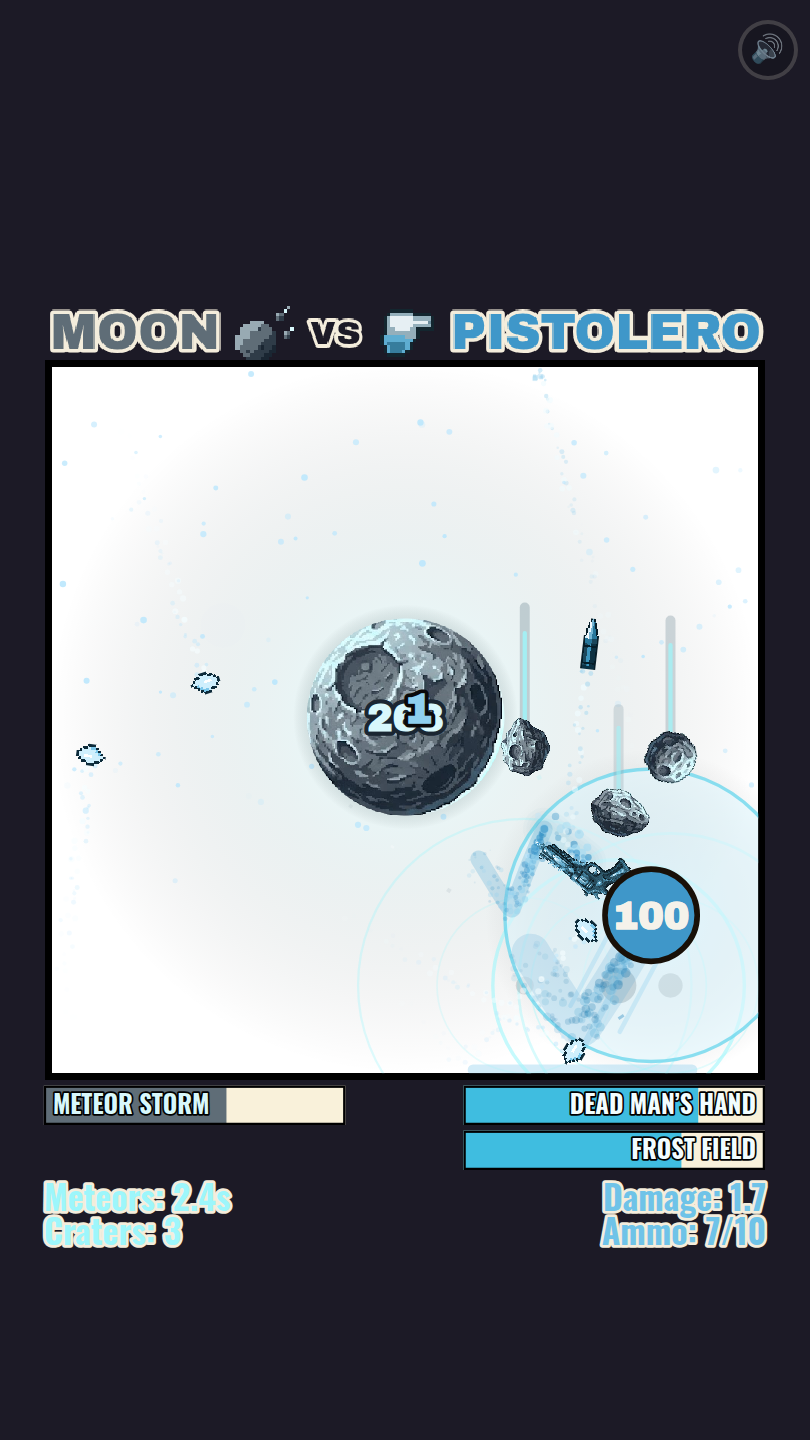
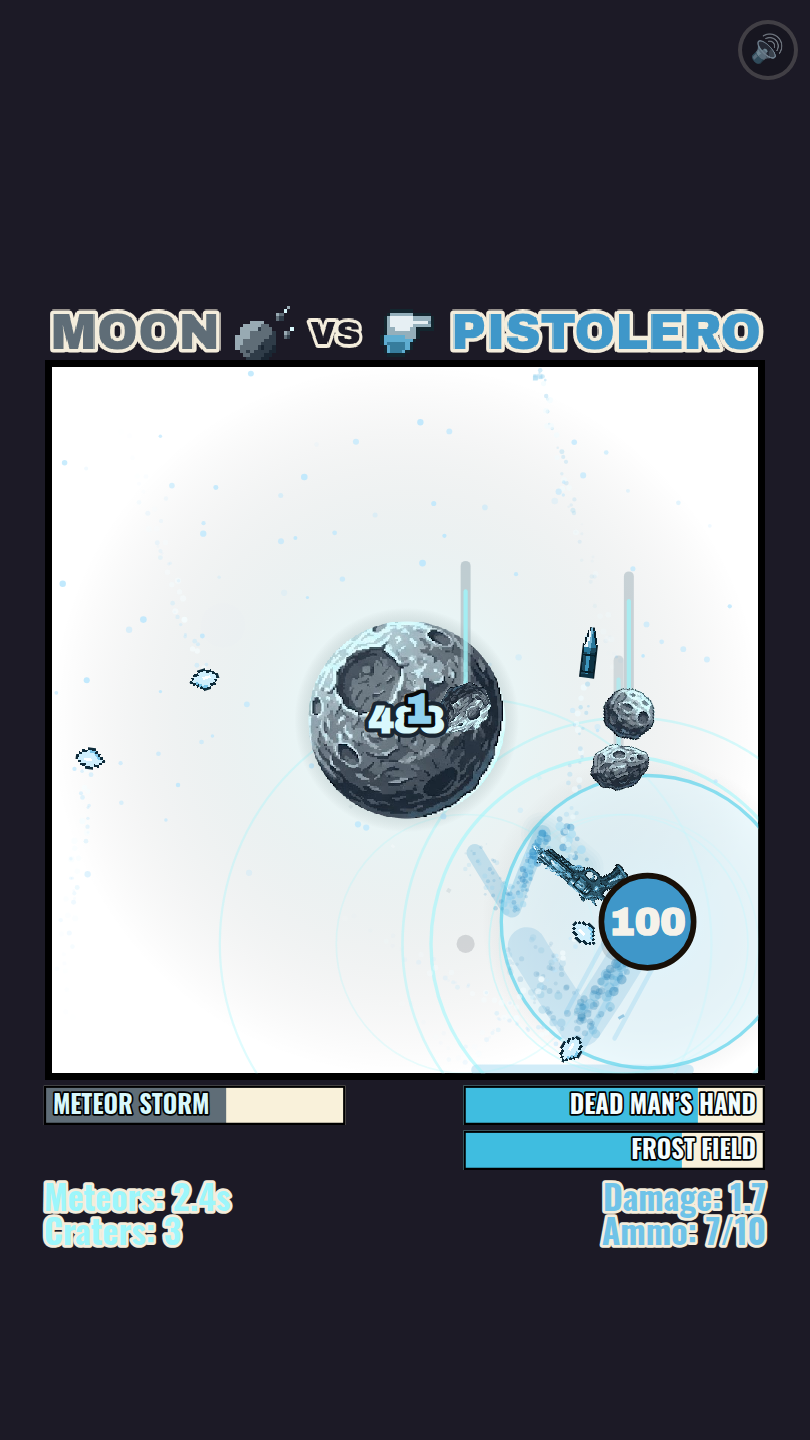
LUNE : 500 PV et une zone de météore de 115 px — demandés, et le sommet n'est plus partagé
Demandé : « hp à 500 / augmente la zone de météorite pour les attaques de base,
ça ne touche quasiment jamais ».

LA ZONE — l'observation était juste, au chiffre près

Taux de touche **par pierre** du pouvoir, 8 graines × les deux camps, avant :
Pistolero et Druide 10–12 %, Ronin / Shinobi / Hoplite 11–14 %, Golem 15 %,
Mannequin 19 %, Soleil 45 %. Une pierre sur dix, c'était bien « quasiment
jamais ».

C'était le prix de la mesure **de centre à centre**, adoptée au commit précédent
pour que le cercle dessiné au sol ne mente pas : elle avait retiré d'un coup
toute la marge que le rayon de la cible offrait gratuitement.

`ability.blast` 78 → **115**, et `ability.spread` 92 → **150** avec lui : à 92,
les trois cercles se recouvraient presque entièrement et se lisaient comme une
tache ; à 150 ils sont jointifs, donc on lit une zone continue faite de trois
cratères. Après :

  Pistolero · Druide        10–12 %  →  22 %
  Ronin · Shinobi · Hoplite 11–14 %  →  22–27 %
  Golem                        15 %  →  40 %
  Mannequin                    19 %  →  44 %
  Soleil                       45 %  →  56 %

Le cercle grandit, il continue de dire la vérité.

LES 500 PV, ET CE QU'ILS COÛTENT — à savoir avant d'y revenir

480 → 460 → 280 → 500 en quatre versions. 280 était le point d'équilibre
**mesuré** : à ce chiffre le duel des boss se partageait à 27/50 sur 25 graines ×
les deux camps.

À 500, LUNE porte la barre du Soleil **en plus** de ne jamais s'exposer (elle n'a
[…]

diff --git a/src/data/fighters/lunar.js b/src/data/fighters/lunar.js
@@ -55,28 +55,32 @@ export const LUNAR = fiche({
   tier: 'boss',
 
   /**
-   * **280 PV** — et c'est **480 → 460 → 280** en trois versions, le chiffre le
-   * plus instable de la fiche parce qu'il est le seul levier du duel des boss.
+   * **500 PV, demandé** (« hp à 500 ») — la barre du Soleil, à égalité pile.
    *
-   * La chute tient en une phrase : **elle ne prend plus aucun risque.** L'arme
-   * supprimée, elle n'a plus jamais besoin d'être quelque part — tout son dégât
-   * tombe du ciel sur un point qu'elle choisit à distance. Une barre de boss
-   * *en plus* de ça rendait le duel imperdable (50/50 au banc avant calage).
-   * 280 reste 2,8 fois la norme et se lit comme sa contrepartie : **le Soleil
-   * est une forteresse (500 PV, il encaisse), elle est un bombardier.**
+   * C'est **480 → 460 → 280 → 500** en quatre versions, le chiffre le plus
+   * remué de la fiche, parce qu'il est le seul levier du duel des boss. 280
+   * était le point d'équilibre **mesuré** : à ce chiffre, le duel se partageait
+   * à 27/50 sur 25 graines × les deux camps.
    *
-   * Balayage **monotone**, 25 graines × les deux camps (elle gagne, sur 50) :
-   * 250 → 13, 285 → 16, 320 → 21 avant le calage final des pierres ; à la
-   * cadence définitive, **280 → 27/50**. Et c'est bien le seul levier qui
-   * fonctionne : les dégâts par pierre et le rayon d'explosion ont tous deux
-   * été balayés et **plafonnent** (à moitié moins de dégâts, elle gagnait
-   * encore 28 fois sur 30), parce qu'ils déplacent sa production contre *tout
-   * le monde* en même temps.
+   * **Ce que 500 change, et il faut le savoir avant d'y toucher** : LUNE ne
+   * prend aucun risque (l'arme supprimée, elle n'a plus jamais besoin d'être
+   * quelque part) et porte désormais **aussi** la barre du Soleil. Le duel des
+   * boss passe donc de **27/50 à 50/50** — elle ne le perd plus jamais, et la
+   * spécification « les deux boss ne se départagent qu'entre eux » n'est plus
+   * vraie : il n'y a plus de partage, il y a un vainqueur.
+   *
+   * Le balayage reste **monotone**, donc le chemin du retour est connu et tient
+   * en un chiffre (25 graines × les deux camps, elle gagne, sur 50) :
+   * 250 → 13, 280 → 27, 285 → 16 · 320 → 21 · 380 → 26 aux réglages d'alors,
+   * **500 → 50**. Et c'est bien le seul levier qui fonctionne : les dégâts par
+   * pierre et le rayon d'explosion ont tous deux été balayés et **plafonnent**
+   * (à moitié moins de dégâts, elle gagnait encore 28 fois sur 30), parce
+   * qu'ils déplacent sa production contre *tout le monde* en même temps.
    *
    * Aucune réduction de dégâts, comme tous les autres : un seul chiffre porte
    * sa résistance, donc le banc n'a qu'un levier à tourner.
    */
-  maxHp: 280,
+  maxHp: 500,
 
   look: {
     /**
@@ -289,10 +293,17 @@ export const LUNAR = fiche({
      *  plus que ça entre deux averses. */
     cooldown: 2.6,
     count: 3,
-    /** Rayon du semis autour de la cible. Le premier caillou tombe **sur** elle,
-     *  les deux autres à 92 px — assez pour que reculer droit devant n'en évite
-     *  pas deux d'un coup. */
-    spread: 92,
+    /**
+     * **Rayon du semis autour de la cible — 92 → 150, et il suit `blast`.**
+     *
+     * Le premier caillou tombe **sur** la cible, les deux autres à `spread` de
+     * là. Tant que l'explosion faisait 78, 92 px de semis laissait les trois
+     * cercles se recouvrir presque entièrement : on lisait une tache, pas trois
+     * cratères. À 115 d'explosion il fallait écarter d'autant — 150 met les
+     * trois cercles **jointifs**, ce qui est exactement ce qu'on veut voir : une
+     * zone continue, mais dont on lit les trois morceaux.
+     */
+    spread: 150,
     /**
      * **Temps de chute, donc temps d'esquive — et le second levier asymétrique
      * de la fiche.**
@@ -356,8 +367,25 @@ export const LUNAR = fiche({
      *    touches par duel contre lui** pour 9 contre tous les autres.
      *
      * Voir le détail dans `game/abilities/lunar.js`, à `impact()`.
+     *
+     * **78 → 115, demandé** (« augmente la zone de météorite pour les attaques
+     * de base, ça ne touche quasiment jamais ») — et le relevé lui donnait
+     * raison au chiffre près. Taux de touche **par pierre**, huit graines × les
+     * deux camps, avant → après :
+     *
+     * | cible | 78 | **115** |
+     * | --- | --- | --- |
+     * | Pistolero · Druide | 10–12 % | **22 %** |
+     * | Ronin · Shinobi · Hoplite | 11–14 % | **22–27 %** |
+     * | Golem | 15 % | **40 %** |
+     * | Mannequin | 19 % | **44 %** |
+     * | Soleil | 45 % | **56 %** |
+     *
+     * Une pierre sur dix, c'était en effet « quasiment jamais » — et c'était le
+     * prix de la mesure de centre à centre, adoptée pour que le cercle dessiné
+     * ne mente pas. Le cercle grandit, il continue de dire la vérité.
      */
-    blast: 78,
+    blast: 115,
     knockback: 170,
     /**
      * **Secousse d'impact, volontairement petite.** Trois pierres décalées de

diff --git a/CLAUDE.md b/CLAUDE.md
@@ -95,7 +95,7 @@ calé pour la masquer.
 | `mage` **DRUIDE** / DRUID | tireur, **sceptre braqué posé sur le flanc et dessiné par-dessus la bille** (`weapon.spin = 0` + `weaponLateral` + `weapon.overBody`), **orbes guidées** (`projectiles.orb.homing`), cadence qui monte seule (+0,05 par orbe). Porte l’**Orage de ronces** et le **Tir enraciné** |
 | `golem` **GOLEM** | **inventé, pas relevé.** Le plus lent (370 px/s), la portée la plus courte (100 px), le plus gros corps (**rayon 50** contre 41) et **200 PV** quand tout le monde en a 100 — sa seule défense, sans aucune réduction de dégâts. Onde sismique sur horloge, Éclats de roche, **Séisme** |
 | `sun` **SOLEIL** / SUN | **inventé, et le seul boss.** Demandé pour **gagner contre tous les autres en 1 contre 1**, et il le fait à une graine près (20/21 sur la matrice, **139/140** sur un banc à 10 seeds × les deux camps — la seule perdue est un duel de 80 s contre l'Hoplite). **Deux fois plus grand que la norme** (rayon 82 contre 41), **500 PV**, et **le plus lent du roster de très loin** (230 px/s) — c'est là toute sa contrepartie. **Huit rayons** en couronne (`weapon.spokes: 8`, aucun angle mort) qui **ne blessent pas** (`melee.damage: 0`, demandé) : c'est sa silhouette et son bruit, plus son arme. Tout passe donc par le **Rayon solaire** (ultime, **79 %** de ses dégâts) : horloge de 7 s, **2 s de charge annoncée à l'écran** — anneaux qui se referment, éclats qui convergent, foyer qui bat — puis **2,5 s** d'un faisceau de 124 px de large, jusqu'à 96 PV. Il est cloué sur place 4,5 s à chaque tir. **Réchauffement solaire** (pouvoir) : brûle tout ennemi dans 240 px, 21 % |
-| `lunar` **LUNE** / MOON | **inventée, second boss, et le seul combattant sans arme qui gagne.** Trois demandes l'ont faite : la revoir en entier, puis « remplace le design de la balle par celui de l'arme / **supprime l'arme** / revois l'ultime météorite pour le rendre plus impressionnant, effet chute de météorites », avec une planche de lune et d'astéroïdes. **Elle n'a donc plus d'arme du tout** (`reach: 0`, `hitbox.radius: 0`, pas de `head.sprite` — le cas du Mannequin, qui est une cible d'entraînement) et **100 % de sa production tombe du ciel**. Corps de **rayon 88, fixe**, la lune criblée de la planche découpée à son disque ; **280 PV** et **430 px/s**. **Météores** (pouvoir, 2,6 s) : trois pierres tombent sur la cible, annoncées 0,45 s au sol par une ombre qui grossit et un cercle qui se resserre sur le rayon d'explosion — 49 %. **Pluie de météores** (ultime, horloge 9 s) : 1,1 s pendant lesquelles la nuit tombe, le corps gonfle et des pierres se détachent de lui, puis **3,2 s d'averse — vingt-cinq pierres, une toutes les 0,13 s**, trois ou quatre en l'air en permanence — 51 %. Elle bat les sept autres **167 fois sur 168** et partage avec le Soleil (**27/50**) |
+| `lunar` **LUNE** / MOON | **inventée, second boss, et le seul combattant sans arme qui gagne.** Trois demandes l'ont faite : la revoir en entier, puis « remplace le design de la balle par celui de l'arme / **supprime l'arme** / revois l'ultime météorite pour le rendre plus impressionnant, effet chute de météorites », avec une planche de lune et d'astéroïdes. **Elle n'a donc plus d'arme du tout** (`reach: 0`, `hitbox.radius: 0`, pas de `head.sprite` — le cas du Mannequin, qui est une cible d'entraînement) et **100 % de sa production tombe du ciel**. Corps de **rayon 88, fixe**, la lune criblée de la planche découpée à son disque ; **500 PV** (demandé) et **430 px/s**. **Météores** (pouvoir, 2,6 s) : trois pierres tombent sur la cible dans une zone de 115 px (demandée, 78 avant : une pierre sur dix touchait), annoncées 0,45 s au sol par une ombre qui grossit et un cercle qui se resserre sur le rayon d'explosion — **67 % de ses dégâts**. **Pluie de météores** (ultime, horloge 9 s) : 1,1 s pendant lesquelles la nuit tombe, le corps gonfle et des pierres se détachent de lui, puis **3,2 s d'averse — vingt-cinq pierres, une toutes les 0,13 s**, trois ou quatre en l'air en permanence — 33 %. Elle bat les sept autres **140 fois sur 140** et, depuis les 500 PV, **le Soleil aussi, 50 fois sur 50** : leur duel n'est plus un partage. Le levier du retour est connu et monotone, c'est `maxHp` (280 rendait 27/50) |
 | `dummy` **MANNEQUIN** / DUMMY | **cible d'entraînement, pas un adversaire.** Aucune arme (pas de `head.sprite`, portée 0, hitbox de rayon 0), **aucun dégât**, aucun pouvoir, blanc, et les PV de la norme. Il existe pour qu'on **regarde l'autre** : sa ligne de HUD affiche les dégâts qu'il a **subis**, donc la production réelle de l'adversaire |
 
 **Le Clone d'ombre**, parce qu'il touche le moteur : des doubles de 15 PV
@@ -135,18 +135,20 @@ miroir chacun : **Lune 24 et Soleil 20** — les deux boss au sommet —, puis
 Druide 13, **Pistolero 13**, Hoplite 12, Shinobi 12, Golem 10, **Ronin 4**,
 Mannequin 0 (c'est sa définition).
 
-**Les deux boss se partagent leur duel, et chacun lâche une graine à un des
-six** — c'est le partage le plus symétrique que le dépôt ait eu, et c'est la
-spécification demandée. Sur 25 graines × les deux camps, le duel des boss est à
-**27/50** pour LUNE ; elle bat les sept autres **167 fois sur 168** (une graine
-au Shinobi), le Soleil est à **139/140** (une graine à l'Hoplite).
+**Le sommet n'est plus partagé, et c'est assumé : LUNE est au-dessus.** Sur
+25 graines × les deux camps, elle gagne le duel des boss **50 fois sur 50**, et
+elle bat les sept autres **140 fois sur 140**. Le Soleil, lui, reste à
+**139/140** contre les six — il n'a pas bougé, c'est elle qui est passée devant.
 
-**Mais la matrice officielle, elle, affiche 24 contre 20**, parce qu'elle ne
-joue chaque paire que trois fois : les trois graines de `sun vs lunar` tombent
-toutes du même côté d'un partage qui est en réalité à 54/46. C'est exactement ce
-que la limite documentée plus bas annonce — *elle exagère les écarts* — et **rien
-n'a été calé pour rattraper la ligne** : le chiffre choisi est celui qui tombe le
-plus près de l'égalité sur **50 duels**, pas celui qui embellit trois.
+C'est le prix de deux demandes explicites : **500 PV** (la barre du Soleil, alors
+qu'elle ne s'expose jamais) et une **zone de météore portée de 78 à 115 px**
+(à 78, une pierre sur dix touchait — le relevé donnait raison à la demande). Le
+duel des boss était mesuré à **27/50** juste avant, à 280 PV.
+
+**Le retour à un partage tient en un chiffre**, et le balayage est monotone :
+`LUNAR.maxHp`, 280 → 27/50, 500 → 50/50. Rien d'autre n'est à toucher — les
+dégâts par pierre et le rayon d'explosion **plafonnent** au banc, voir
+`docs/PIEGES.md`.
 
 **Les changements de LUNE ne déplacent qu'elle**, et ça s'est vérifié à chaque
 fois : le diff de la matrice contient **neuf lignes, toutes les siennes**, les
@@ -220,11 +222,12 @@ fois plus souvent. Le **Ronin s'effondre de 10 à 4** — ses dégâts plafonnen
 plus, seulement plus de temps pour se faire rattraper.
 **Les lignes `… vs dummy` sont un banc de DPS**, pas un relevé d'équilibrage —
 et il **ne suit pas simplement la division** (100 PV ÷ la durée moyenne des
-trois seeds) : **Lune 4,7**, Ronin 3,3, Shinobi 3,1, Hoplite 3,0, Druide 2,8,
-Pistolero 2,5, Golem 1,8 PV/s. **La Lune est loin en tête du banc et le Soleil au
-milieu, et les deux sont cohérents avec ce qu'ils sont** : elle frappe vite et
-n'a que 280 PV, il frappe lentement et en a 500. Un banc de DPS ne dit rien de
-qui gagne.
+trois seeds) : **Lune 8,4**, Ronin 3,3, Shinobi 3,1, Hoplite 3,0, Druide 2,8,
+Pistolero 2,5, Golem 1,8 PV/s. **La Lune est à elle seule deux fois et demie le
+deuxième du banc** depuis que sa zone de météore est passée à 115 px — c'est la
+mesure de ce que la demande a changé, et c'est aussi pourquoi elle est
+aujourd'hui au-dessus du Soleil. Un banc de DPS ne dit pas qui gagne ; celui-ci,
+exceptionnellement, le dit.
 **Le Soleil est à 3,0, au milieu — et ça ne le contredit pas** :
 il gagne quand même 20 de ses 21 duels, parce qu'il encaisse cinq fois plus
 qu'il ne frappe vite. Sa ligne est surtout **la plus dispersée du banc** (23,7 · 33,2 ·

diff --git a/docs/FICHES.md b/docs/FICHES.md
@@ -39,15 +39,15 @@ les recale en une commande.
 | 🎯 MANNEQUIN — `dummy` (cible d'entraînement : sans arme, sans dégâts) | 2647 |
 | ☀ SOLEIL — `sun` (le boss : il est fait pour gagner contre tous) | 2733 |
 | 🌙 LUNE — `lunar` (le second boss : il est fait pour matcher le Soleil) | 3067 |
-| La norme passe à 200 PV, le Golem à 400 (historique) | 3231 |
-| Neon Shadow supprimé, la norme redescend à 100 PV | 3286 |
-| Les dégâts de tous les combattants, divisés par deux | 3354 |
-| Rééquilibrage confiné au Golem et au Ronin | 3464 |
-| Nerf confiné au Shinobi et au Pistolero, les deux qui dominaient | 3551 |
-| Le son de chacun | 3601 |
-| Équilibrage du roster | 3719 |
-| Règles communes (moteur) | 3817 |
-| Comment les mesures ont été prises | 3841 |
+| La norme passe à 200 PV, le Golem à 400 (historique) | 3268 |
+| Neon Shadow supprimé, la norme redescend à 100 PV | 3323 |
+| Les dégâts de tous les combattants, divisés par deux | 3391 |
+| Rééquilibrage confiné au Golem et au Ronin | 3501 |
+| Nerf confiné au Shinobi et au Pistolero, les deux qui dominaient | 3588 |
+| Le son de chacun | 3638 |
+| Équilibrage du roster | 3756 |
+| Règles communes (moteur) | 3854 |
+| Comment les mesures ont été prises | 3878 |
 
 ## Comment lire une valeur
 
@@ -3094,8 +3094,8 @@ jamais, et **100 % de sa production tombe du ciel**.
 | d'où vient le dégât | le faisceau, 79 % | **le ciel, 100 %** (49 % pouvoir, 51 % ultime) |
 | ce qui s'annonce | *une ligne*, 2 s | *des zones au sol*, 0,45 s chacune |
 | déplacement | 230 px/s, le plus lent | 430 px/s |
-| points de vie | **500** — une forteresse | **280** — un bombardier |
-| face au Mannequin | 3,0 PV/s | **4,7 PV/s**, le plus haut du roster |
+| points de vie | **500** — une forteresse | **500** aussi, demandé — et elle ne s'expose jamais |
+| face au Mannequin | 3,0 PV/s | **8,4 PV/s**, deux fois et demie le deuxième du roster |
 
 **Météores** (pouvoir, 2,6 s) : trois pierres quittent l'orbite et tombent sur la
 cible, annoncées 0,45 s au sol par une ombre qui grossit et un cercle qui se
@@ -3108,12 +3108,12 @@ toutes les 0,13 s**, trois ou quatre en l'air en permanence.
 
 | Valeur | Détail | Source |
 | --- | --- | --- |
-| Points de vie | **280** — 480 → 460 → 280 en trois versions, voir plus bas | calé |
+| Points de vie | **500** — demandé (« hp à 500 »). 480 → 460 → 280 → 500 ; 280 était le point d'équilibre mesuré, voir plus bas | demandé |
 | Corps | `lunar-ball.png`, la lune de la planche fournie, découpée à son **disque** (262 × 262). Contraste médian sur l'arène blanche **5,32**, 9 % de pixels sous le seuil — contre 6,51 pour l'éclipse qu'elle remplace et **1,54 / 48 %** pour la pleine lune cyan, qui était le dessin de l'arme et n'aurait donc *pas* pu servir de corps telle quelle | relevé sur la maquette |
 | Taille | `look.radius` **88, fixe**. Sans arme, son corps ne sert plus qu'à occuper l'espace : il bouscule, il bloque, il encaisse. `f.sizeFactor` reste écrit par l'ultime (× 1,12) — de la mise en scène, plus du gameplay | déduit |
 | Palette | Cinq bandes de luminance sur `lunar-ball.png` (`edge #1a2632` · `shadow #2f3c48` · `body #5f6d77` · `light #98aab3` · `core #d8f8fc`) **plus une sixième** : le halo de glace `#9df6fb`, relevé à part parce qu'il a été coupé du sprite exprès. La lune est grise ; sa couleur est autour d'elle | relevé sur la maquette |
 | **Arme** | **aucune** — demandé. Géométrie vide (`reach`/`hitbox` à 0), ce qui est plus sûr que des dégâts à zéro : la condition de touche devient structurellement impossible, `resolveBodies` maintenant les corps séparés | déduit |
-| **Pouvoir** | *Météores* — 2,6 s, trois pierres, 14 par pierre, explosion de 78 px, chute de 0,45 s | calé |
+| **Pouvoir** | *Météores* — 2,6 s, trois pierres, 14 par pierre, **explosion de 115 px** (demandée, 78 avant) sur un semis de 150, chute de 0,45 s. **67 % de ses dégâts** | demandé + calé |
 | **Ultime** | *Pluie de météores* — 1,1 s d'annonce + 3,2 s d'averse, une pierre toutes les 0,13 s à 8 par pierre, explosion de 86 px, sur une arène passée à la nuit | calé |
 | Anticipation | `lead: 0,5` — la pierre vise là où la cible **sera**, sur son cap et sa vitesse courante (`currentSpeed`) | calé |
 | Semis | **Aucun tirage** (invariant 2) : chaque pierre est tournée de l'angle d'or par rapport à la précédente | déduit |
@@ -3167,6 +3167,43 @@ la barre du Soleil.
 deux camps, chaque adversaire), une seule graine perdue au Shinobi. Le Soleil est
 à 139/140 et en perd une à l'Hoplite : **chaque boss lâche exactement une graine
 à un des six**, ce qui est le partage le plus symétrique que le dépôt ait eu.
+
+### Le réglage demandé après coup : 500 PV et une zone de 115
+
+**Deux demandes, et la seconde était une observation juste** : « hp à 500 /
+augmente la zone de météorite pour les attaques de base, ça ne touche quasiment
+jamais ». Le relevé du taux de touche **par pierre** le confirmait au chiffre
+près — 8 graines × les deux camps :
+
+| cible | `blast: 78` | **`blast: 115`** |
+| --- | --- | --- |
+| Pistolero · Druide | 10–12 % | **22 %** |
+| Ronin · Shinobi · Hoplite | 11–14 % | **22–27 %** |
+| Golem | 15 % | **40 %** |
+| Mannequin (immobile ou presque) | 19 % | **44 %** |
+| Soleil | 45 % | **56 %** |
+
+Une pierre sur dix, c'était en effet « quasiment jamais ». C'était le prix de la
+mesure **de centre à centre**, adoptée pour que le cercle dessiné ne mente pas :
+elle avait retiré d'un coup toute la marge que le rayon de la cible offrait
+gratuitement. Le cercle grandit, il continue de dire la vérité. `spread` suit de
+92 à **150**, sinon les trois cercles se recouvrent presque entièrement et on lit
+une tache au lieu de trois cratères.
+
+**Ce que les deux ensemble ont coûté, et c'est à savoir.** Le duel des boss
+passe de **27/50 à 50/50** : LUNE ne le perd plus jamais, et la spécification
+« les deux boss ne se départagent qu'entre eux » n'est plus vraie — il y a
+désormais un vainqueur. Elle reste par ailleurs à **140/140** contre les sept
+autres, et le Soleil n'a pas bougé (139/140 contre les six) : ce n'est pas lui
+qui a baissé, c'est elle qui est passée devant.
+
+La répartition de ses dégâts bascule avec : **Météores 67 % / Pluie 33 %**, là
+où c'était 49/51. Le pouvoir est devenu sa source principale, ce qui est
+exactement ce que la demande visait.
+
+**Le retour à un partage tient en un chiffre**, et le balayage est monotone :
+`maxHp` 280 → 27/50, 500 → 50/50. Rien d'autre n'est à toucher — les deux autres
+leviers plafonnent, c'est mesuré juste au-dessus.
 
 ### L'image : la densité fait l'impression, pas la puissance
 

diff --git a/README.md b/README.md
@@ -25,8 +25,8 @@ autres.
 | **Shinobi** | Shuriken d'ombre — **la bille *est* l'arme**, sprite centré dessus | hitbox en **disque** de 75 px tout autour, le seul du roster ; palette sombre | Tornade de shurikens / SHURIKEN TORNADO |
 | **Druide** | Bâton de ronce (transcrit d'une maquette) — **braqué sur la cible, centré sur son pivot et dessiné par-dessus la bille** | **tireur** : des **orbes guidées** qui virent vers l'adversaire, à une **cadence qui monte toute seule** (+0,05 par orbe, de 1,00 à 4,00 par seconde) | Orage de ronces / THORN STORM |
 | **Golem** (inventé) | Amas de roche (maquette servie par un vrai PNG, **par-dessus la bille**) — **la portée la plus courte du jeu** (100 px), et la rotation d'arme la plus lente | **le plus lent** (420 px/s), **le plus gros** (rayon 50 contre 41) et **200 PV** quand tout le monde en a 100 : il encaisse chaque coup en entier, il en encaisse simplement deux fois plus. Onde sismique sur horloge, éclats de roche pour qui reste au loin | Séisme / EARTHQUAKE (secousse sur 260 px, puis +35 % de vitesse) |
-| **Soleil** (inventé, **boss**) | Couronne de rayons (maquette de flamme servie par un vrai PNG) — **huit rayons à la fois**, un tous les 45°, et **ils ne blessent pas** : c'est sa silhouette, plus son arme. La bille est elle-même une maquette servie en PNG — **le seul corps du jeu qui ne soit pas un cercle vectoriel** | **fait pour gagner contre tous les autres en 1 contre 1**, et il le fait à une graine près — **139 duels sur 140** contre les six autres, la seule perdue à l'Hoplite ; son duel avec la Lune, lui, est un vrai partage (la matrice officielle, qui ne joue chaque paire que trois fois, le montre à 20 contre 24). **Deux fois plus grand** que la norme (rayon 82 contre 41), **500 PV**, et **le plus lent du jeu de très loin** (230 px/s). Tout passe par son ultime : le coller ne coûte rien, mais c'est de près que le faisceau est inesquivable. Réchauffement solaire : brûle qui reste dans 240 px | Rayon solaire / SOLAR BEAM — **2 s de charge annoncée à l'écran** (anneaux qui se referment, foyer qui bat), puis **2,5 s** d'un faisceau de 124 px qui traverse l'arène, jusqu'à 96 PV |
-| **Lune** (inventée, **boss**) | **aucune** — le second du jeu après le Mannequin, et le seul qui gagne quand même. Portée 0, hitbox de rayon 0, pas de sprite d'arme : elle ne peut pas toucher. Son corps est une lune criblée servie en PNG, **le second corps du jeu qui ne soit pas un cercle vectoriel** | **le second boss, et l'opposé du premier** : lui est planté (230 px/s) et produit par un faisceau annoncé sur *une ligne* ; elle est **mobile** (430 px/s) et **100 % de ce qu'elle produit tombe du ciel**, sur des zones dessinées au sol. Rayon **88, fixe** — le plus gros corps du jeu — mais **280 PV** seulement : elle ne s'expose jamais, elle ne porte donc pas la barre d'une forteresse. Elle bat les sept autres 167 fois sur 168, et partage son duel avec le Soleil. Météores : toutes les 2,6 s, trois pierres tombent sur la cible, annoncées 0,45 s à l'avance | Pluie de météores / METEOR STORM — 1,1 s pendant lesquelles **la nuit tombe sur l'arène** et des pierres se détachent d'elle, puis **3,2 s d'averse : vingt-cinq météores, une toutes les 0,13 s**, trois ou quatre en l'air en permanence |
+| **Soleil** (inventé, **boss**) | Couronne de rayons (maquette de flamme servie par un vrai PNG) — **huit rayons à la fois**, un tous les 45°, et **ils ne blessent pas** : c'est sa silhouette, plus son arme. La bille est elle-même une maquette servie en PNG — **le seul corps du jeu qui ne soit pas un cercle vectoriel** | **fait pour gagner contre tous les autres en 1 contre 1**, et il le fait à une graine près — **139 duels sur 140** contre les six autres, la seule perdue à l'Hoplite ; son duel avec la Lune, lui, il le perd : depuis qu'elle est passée à 500 PV, elle le gagne 50 fois sur 50. **Deux fois plus grand** que la norme (rayon 82 contre 41), **500 PV**, et **le plus lent du jeu de très loin** (230 px/s). Tout passe par son ultime : le coller ne coûte rien, mais c'est de près que le faisceau est inesquivable. Réchauffement solaire : brûle qui reste dans 240 px | Rayon solaire / SOLAR BEAM — **2 s de charge annoncée à l'écran** (anneaux qui se referment, foyer qui bat), puis **2,5 s** d'un faisceau de 124 px qui traverse l'arène, jusqu'à 96 PV |
+| **Lune** (inventée, **boss**) | **aucune** — le second du jeu après le Mannequin, et le seul qui gagne quand même. Portée 0, hitbox de rayon 0, pas de sprite d'arme : elle ne peut pas toucher. Son corps est une lune criblée servie en PNG, **le second corps du jeu qui ne soit pas un cercle vectoriel** | **le second boss, et l'opposé du premier** : lui est planté (230 px/s) et produit par un faisceau annoncé sur *une ligne* ; elle est **mobile** (430 px/s) et **100 % de ce qu'elle produit tombe du ciel**, sur des zones dessinées au sol. Rayon **88, fixe** — le plus gros corps du jeu — et **500 PV**, la barre du Soleil. Elle bat les sept autres 140 fois sur 140 **et le Soleil aussi** : depuis qu'elle porte 500 PV et une zone de météore élargie, le sommet n'est plus partagé. Météores : toutes les 2,6 s, trois pierres tombent sur la cible dans une zone de 115 px, annoncées 0,45 s à l'avance | Pluie de météores / METEOR STORM — 1,1 s pendant lesquelles **la nuit tombe sur l'arène** et des pierres se détachent d'elle, puis **3,2 s d'averse : vingt-cinq météores, une toutes les 0,13 s**, trois ou quatre en l'air en permanence |
 | **Mannequin** (inventé) | **aucune** — le seul du jeu | **cible d'entraînement** : il ne fait aucun dégât, n'a aucun pouvoir, et porte les PV de la norme, en blanc. On le choisit pour **regarder l'autre combattant** : sa ligne de HUD compte les dégâts qu'il a subis, donc ce que l'adversaire produit vraiment | aucun (jauge vide, « NO ULTIMATE ») |
 
 ### Quatre formats
